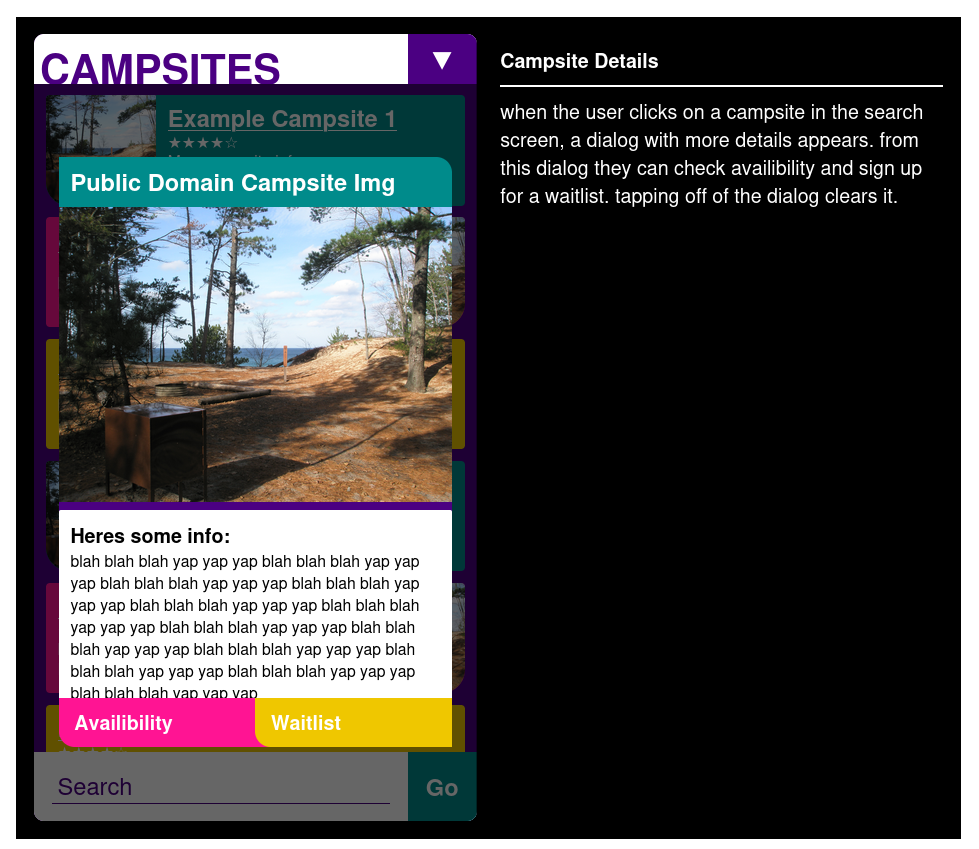
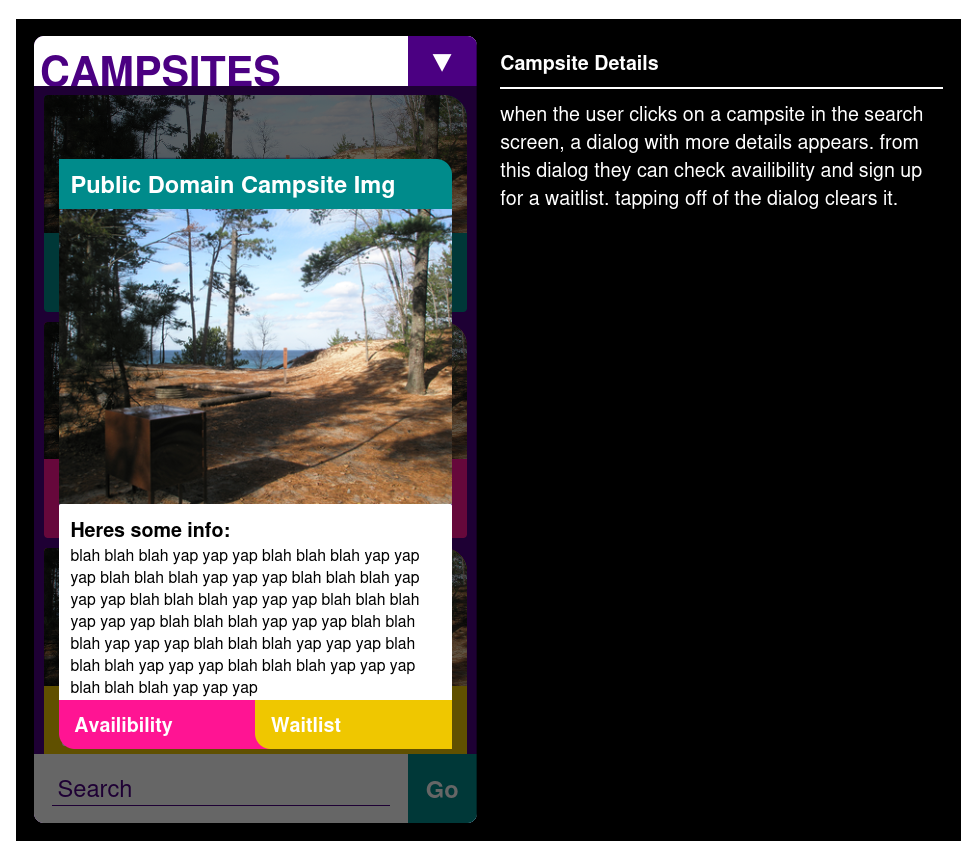
tweaks

Changed region(s): [[0.0, 0.0612, 0.9806, 1.0], [0.4903, 0.0612, 0.6742, 0.0919], [0.0919, 0.2144, 0.1226, 0.245]]

diff --git a/doc/mockups.html b/doc/mockups.html
@@ -15,7 +15,6 @@
             --scrh: 800px;
         }
         body {
-            padding: 0 12px;
             color: var(--black);
             font-family: "Helvetica", "Arial", sans-serif;
             font-size: 20px;
@@ -199,6 +198,8 @@
         }
         .modal {
             overflow: scroll;
+            display: flex;
+            flex-direction: column;
         }
         .modalbg {
             background-color: rgba(0, 0, 0, 0.6);
@@ -216,7 +217,6 @@
             color: var(--black);
             background-color: var(--white);
             border-radius: 2px;
-            overflow: hidden;
         }
         .modalhd {
             font-size: 20px;
@@ -314,6 +314,40 @@
             font-size: 12px;
             font-weight: bold;
        }
+        .campbox {
+            margin: 5px 10px;
+            width: 430px;
+            min-height: 220px;
+            border-radius: 4px 24px 4px 4px;
+            display: grid;
+            grid-template-rows: auto auto;
+            overflow: hidden;
+        }
+        .campthumb {
+            object-fit: cover;
+            object-position: center;
+            height: 140px;
+            width: 430px;
+            content: url("https://upload.wikimedia.org/wikipedia/commons/1/14/Beaver_Creek_Backcountry_Campsite_%284780d386-e88a-4d54-8405-18af92fbca7e%29.JPG?utm_source=commons.wikimedia.org&utm_campaign=index&utm_content=original");
+        }
+        .campdesc {
+            margin: 6px;
+            padding: 6px 12px;
+            font-size: 16px;
+            display: grid;
+        }
+        .campname {
+            font-size: 20px;
+            font-weight: bold;
+            text-decoration: underline;
+            grid-row: 1;
+        }
+        .camprating {
+            font-size: 20px;
+            grid-row: 1;
+            align-self: end;
+            justify-self: end;
+        }
     </style>
 </head>
 <body class="row">
@@ -426,86 +460,53 @@
                     </div>
                 </div>
             </div>
-            <div class="col" style="overflow: scroll; padding: 6px 0;">
-                <div class="li li1">
-                    <img class="lithumbnail"/>
-                    <div class="litext">                    
-                        <p class="min lih" style="grid-row: 1;">Example Campsite 1</p>
-                        <p class="min" style="grid-row: 2;">★★★★☆</p>
-                        <p class="min" style="grid-row: 3;">More campsite info</p>
-                        <p class="min" style="grid-row: 4;">Even more campsite info</p>
+            <div class="col" style="padding: 5px 0; overflow: scroll;">
+                <div class="campbox square1">
+                    <img class="campthumb"/>
+                    <div class="campdesc">
+                        <p class="min campname">Example Campsite 1</p>
+                        <p class="min camprating">★★★★☆</p>
+                        <p class="min" style="grid-column: 1 / 3;">a real four out of five campsite at campsite dot com</p>
                     </div>
                 </div>
-                <div class="li li2">
-                    <div class="litext">                    
-                        <p class="min lih" style="grid-row: 1;">Example Campsite 2</p>
-                        <p class="min" style="grid-row: 2;">★★★★☆</p>
-                        <p class="min" style="grid-row: 3;">More campsite info</p>
-                        <p class="min" style="grid-row: 4;">Even more campsite info</p>
-                    </div>
-                    <div class="w1"></div>
-                    <img class="lithumbnail"/>
-                </div>
-                <div class="li li3">
-                    <div class="litext">                    
-                        <p class="min lih" style="grid-row: 1;">Example Campsite 3</p>
-                        <p class="min" style="grid-row: 2;">★★★★☆</p>
-                        <p class="min" style="grid-row: 3;">More campsite info</p>
-                        <p class="min" style="grid-row: 4;">Even more campsite info</p>
+                <div class="campbox square2">
+                    <img class="campthumb"/>
+                    <div class="campdesc">
+                        <p class="min campname">Example Campsite 2</p>
+                        <p class="min camprating">★★★★☆</p>
+                        <p class="min" style="grid-column: 1 / 3;">a real four out of five campsite at campsite dot com</p>
                     </div>
                 </div>
-                <div class="li li1">
-                    <img class="lithumbnail"/>
-                    <div class="litext">                    
-                        <p class="min lih" style="grid-row: 1;">Example Campsite 4</p>
-                        <p class="min" style="grid-row: 2;">★★★★☆</p>
-                        <p class="min" style="grid-row: 3;">More campsite info</p>
-                        <p class="min" style="grid-row: 4;">Even more campsite info</p>
+                <div class="campbox square3">
+                    <img class="campthumb"/>
+                    <div class="campdesc">
+                        <p class="min campname">Example Campsite 3</p>
+                        <p class="min camprating">★★★★☆</p>
+                        <p class="min" style="grid-column: 1 / 3;">a real four out of five campsite at campsite dot com</p>
                     </div>
                 </div>
-                <div class="li li2">
-                    <div class="litext">                    
-                        <p class="min lih" style="grid-row: 1;">Example Campsite 5</p>
-                        <p class="min" style="grid-row: 2;">★★★★☆</p>
-                        <p class="min" style="grid-row: 3;">More campsite info</p>
-                        <p class="min" style="grid-row: 4;">Even more campsite info</p>
-                    </div>
-                    <div class="w1"></div>
-                    <img class="lithumbnail"/>
-                </div>
-                <div class="li li3">
-                    <div class="litext">                    
-                        <p class="min lih" style="grid-row: 1;">Example Campsite 6</p>
-                        <p class="min" style="grid-row: 2;">★★★★☆</p>
-                        <p class="min" style="grid-row: 3;">More campsite info</p>
-                        <p class="min" style="grid-row: 4;">Even more campsite info</p>
+                <div class="campbox square1">
+                    <img class="campthumb"/>
+                    <div class="campdesc">
+                        <p class="min campname">Example Campsite 4</p>
+                        <p class="min camprating">★★★★☆</p>
+                        <p class="min" style="grid-column: 1 / 3;">a real four out of five campsite at campsite dot com</p>
                     </div>
                 </div>
-                <div class="li li1">
-                    <img class="lithumbnail"/>
-                    <div class="litext">                    
-                        <p class="min lih" style="grid-row: 1;">Example Campsite 1</p>
-                        <p class="min" style="grid-row: 2;">★★★★☆</p>
-                        <p class="min" style="grid-row: 3;">More campsite info</p>
-                        <p class="min" style="grid-row: 4;">Even more campsite info</p>
+                <div class="campbox square2">
+                    <img class="campthumb"/>
+                    <div class="campdesc">
+                        <p class="min campname">Example Campsite 5</p>
+                        <p class="min camprating">★★★★☆</p>
+                        <p class="min" style="grid-column: 1 / 3;">a real four out of five campsite at campsite dot com</p>
                     </div>
                 </div>
-                <div class="li li2">
-                    <div class="litext">                    
-                        <p class="min lih" style="grid-row: 1;">Example Campsite 2</p>
-                        <p class="min" style="grid-row: 2;">★★★★☆</p>
-                        <p class="min" style="grid-row: 3;">More campsite info</p>
-                        <p class="min" style="grid-row: 4;">Even more campsite info</p>
-                    </div>
-                    <div class="w1"></div>
-                    <img class="lithumbnail"/>
-                </div>
-                <div class="li li3">
-                    <div class="litext">                    
-                        <p class="min lih" style="grid-row: 1;">Example Campsite 3</p>
-                        <p class="min" style="grid-row: 2;">★★★★☆</p>
-                        <p class="min" style="grid-row: 3;">More campsite info</p>
-                        <p class="min" style="grid-row: 4;">Even more campsite info</p>
+                <div class="campbox square3">
+                    <img class="campthumb"/>
+                    <div class="campdesc">
+                        <p class="min campname">Example Campsite 6</p>
+                        <p class="min camprating">★★★★☆</p>
+                        <p class="min" style="grid-column: 1 / 3;">a real four out of five campsite at campsite dot com</p>
                     </div>
                 </div>
             </div>
@@ -547,7 +548,7 @@
             </div>
             <div class="row cen modalbg" style="z-index: 20; grid-row: 2 / 4; grid-column: 1;">
                 <div class="col cen">
-                    <div style="display: grid; grid-template-rows: 50px 500px 50px; max-width: 400px; max-height: 600px;
+                    <div style="display: grid; grid-template-rows: 50px auto 50px; max-width: 400px; max-height: 600px;
                         border-radius: 0 16px 0 16px; overflow: hidden;">
                         <div class="col cen" style="grid-row: 1 / 2; background-color: var(--acc1); padding: 0 12px;">
                             <p class="min modaltitle">
@@ -588,63 +589,57 @@
                     </div>
                 </div>
             </div>
-            <div class="col" style="z-index: 10; grid-row: 2 / 3; grid-column: 1; overflow: scroll; padding: 6px 0;">
-                <div class="li li1">
-                    <img class="lithumbnail"/>
-                    <div class="litext">                    
-                        <p class="min lih" style="grid-row: 1;">Example Campsite 1</p>
-                        <p class="min" style="grid-row: 2;">★★★★☆</p>
-                        <p class="min" style="grid-row: 3;">More campsite info</p>
-                        <p class="min" style="grid-row: 4;">Even more campsite info</p>
+            <div class="col" style="padding: 5px 0; overflow: scroll; z-index: 10; grid-row: 2 / 4; grid-column: 1;">
+                <div class="campbox square1">
+                    <img class="campthumb"/>
+                    <div class="campdesc">
+                        <p class="min campname">Example Campsite 1</p>
+                        <p class="min camprating">★★★★☆</p>
+                        <p class="min" style="grid-column: 1 / 3;">a real four out of five campsite at campsite dot com</p>
                     </div>
                 </div>
-                <div class="li li2">
-                    <div class="litext">                    
-                        <p class="min lih" style="grid-row: 1;">Example Campsite 2</p>
-                        <p class="min" style="grid-row: 2;">★★★★☆</p>
-                        <p class="min" style="grid-row: 3;">More campsite info</p>
-                        <p class="min" style="grid-row: 4;">Even more campsite info</p>
-                    </div>
-                    <div class="w1"></div>
-                    <img class="lithumbnail"/>
-                </div>
-                <div class="li li3">
-                    <div class="litext">                    
-                        <p class="min lih" style="grid-row: 1;">Example Campsite 3</p>
-                        <p class="min" style="grid-row: 2;">★★★★☆</p>
-                        <p class="min" style="grid-row: 3;">More campsite info</p>
-                        <p class="min" style="grid-row: 4;">Even more campsite info</p>
+                <div class="campbox square2">
+                    <img class="campthumb"/>
+                    <div class="campdesc">
+                        <p class="min campname">Example Campsite 2</p>
+                        <p class="min camprating">★★★★☆</p>
+                        <p class="min" style="grid-column: 1 / 3;">a real four out of five campsite at campsite dot com</p>
                     </div>
                 </div>
-                <div class="li li1">
-                    <img class="lithumbnail"/>
-                    <div class="litext">                    
-                        <p class="min lih" style="grid-row: 1;">Example Campsite 4</p>
-                        <p class="min" style="grid-row: 2;">★★★★☆</p>
-                        <p class="min" style="grid-row: 3;">More campsite info</p>
-                        <p class="min" style="grid-row: 4;">Even more campsite info</p>
+                <div class="campbox square3">
+                    <img class="campthumb"/>
+                    <div class="campdesc">
+                        <p class="min campname">Example Campsite 3</p>
+                        <p class="min camprating">★★★★☆</p>
+                        <p class="min" style="grid-column: 1 / 3;">a real four out of five campsite at campsite dot com</p>
                     </div>
                 </div>
-                <div class="li li2">
-                    <div class="litext">                    
-                        <p class="min lih" style="grid-row: 1;">Example Campsite 5</p>
-                        <p class="min" style="grid-row: 2;">★★★★☆</p>
-                        <p class="min" style="grid-row: 3;">More campsite info</p>
-                        <p class="min" style="grid-row: 4;">Even more campsite info</p>
+                <div class="campbox square1">
+                    <img class="campthumb"/>
+                    <div class="campdesc">
+                        <p class="min campname">Example Campsite 4</p>
+                        <p class="min camprating">★★★★☆</p>
+                        <p class="min" style="grid-column: 1 / 3;">a real four out of five campsite at campsite dot com</p>
                     </div>
-                    <div class="w1"></div>
-                    <img class="lithumbnail"/>
                 </div>
-                <div class="li li3">
-                    <div class="litext">                    
-                        <p class="min lih" style="grid-row: 1;">Example Campsite 6</p>
-                        <p class="min" style="grid-row: 2;">★★★★☆</p>
-                        <p class="min" style="grid-row: 3;">More campsite info</p>
-                        <p class="min" style="grid-row: 4;">Even more campsite info</p>
+                <div class="campbox square2">
+                    <img class="campthumb"/>
+                    <div class="campdesc">
+                        <p class="min campname">Example Campsite 5</p>
+                        <p class="min camprating">★★★★☆</p>
+                        <p class="min" style="grid-column: 1 / 3;">a real four out of five campsite at campsite dot com</p>
+                    </div>
+                </div>
+                <div class="campbox square3">
+                    <img class="campthumb"/>
+                    <div class="campdesc">
+                        <p class="min campname">Example Campsite 6</p>
+                        <p class="min camprating">★★★★☆</p>
+                        <p class="min" style="grid-column: 1 / 3;">a real four out of five campsite at campsite dot com</p>
                     </div>
                 </div>
             </div>
-            <form class="inv row" style="grid-row: 3 / 4; grid-column: 1;">
+            <form class="inv row" style="grid-row: 3 / 4; grid-column: 1; z-index: 15;">
                 <div class="col cen w1" style="padding: 0px 18px;">
                     <input type="text" class="text inv uline" placeholder="Search" style="padding: 0px 6px;"/>
                 </div>
@@ -1132,5 +1127,4 @@
            </p>
         </div>
     </div>
-
 </body>
